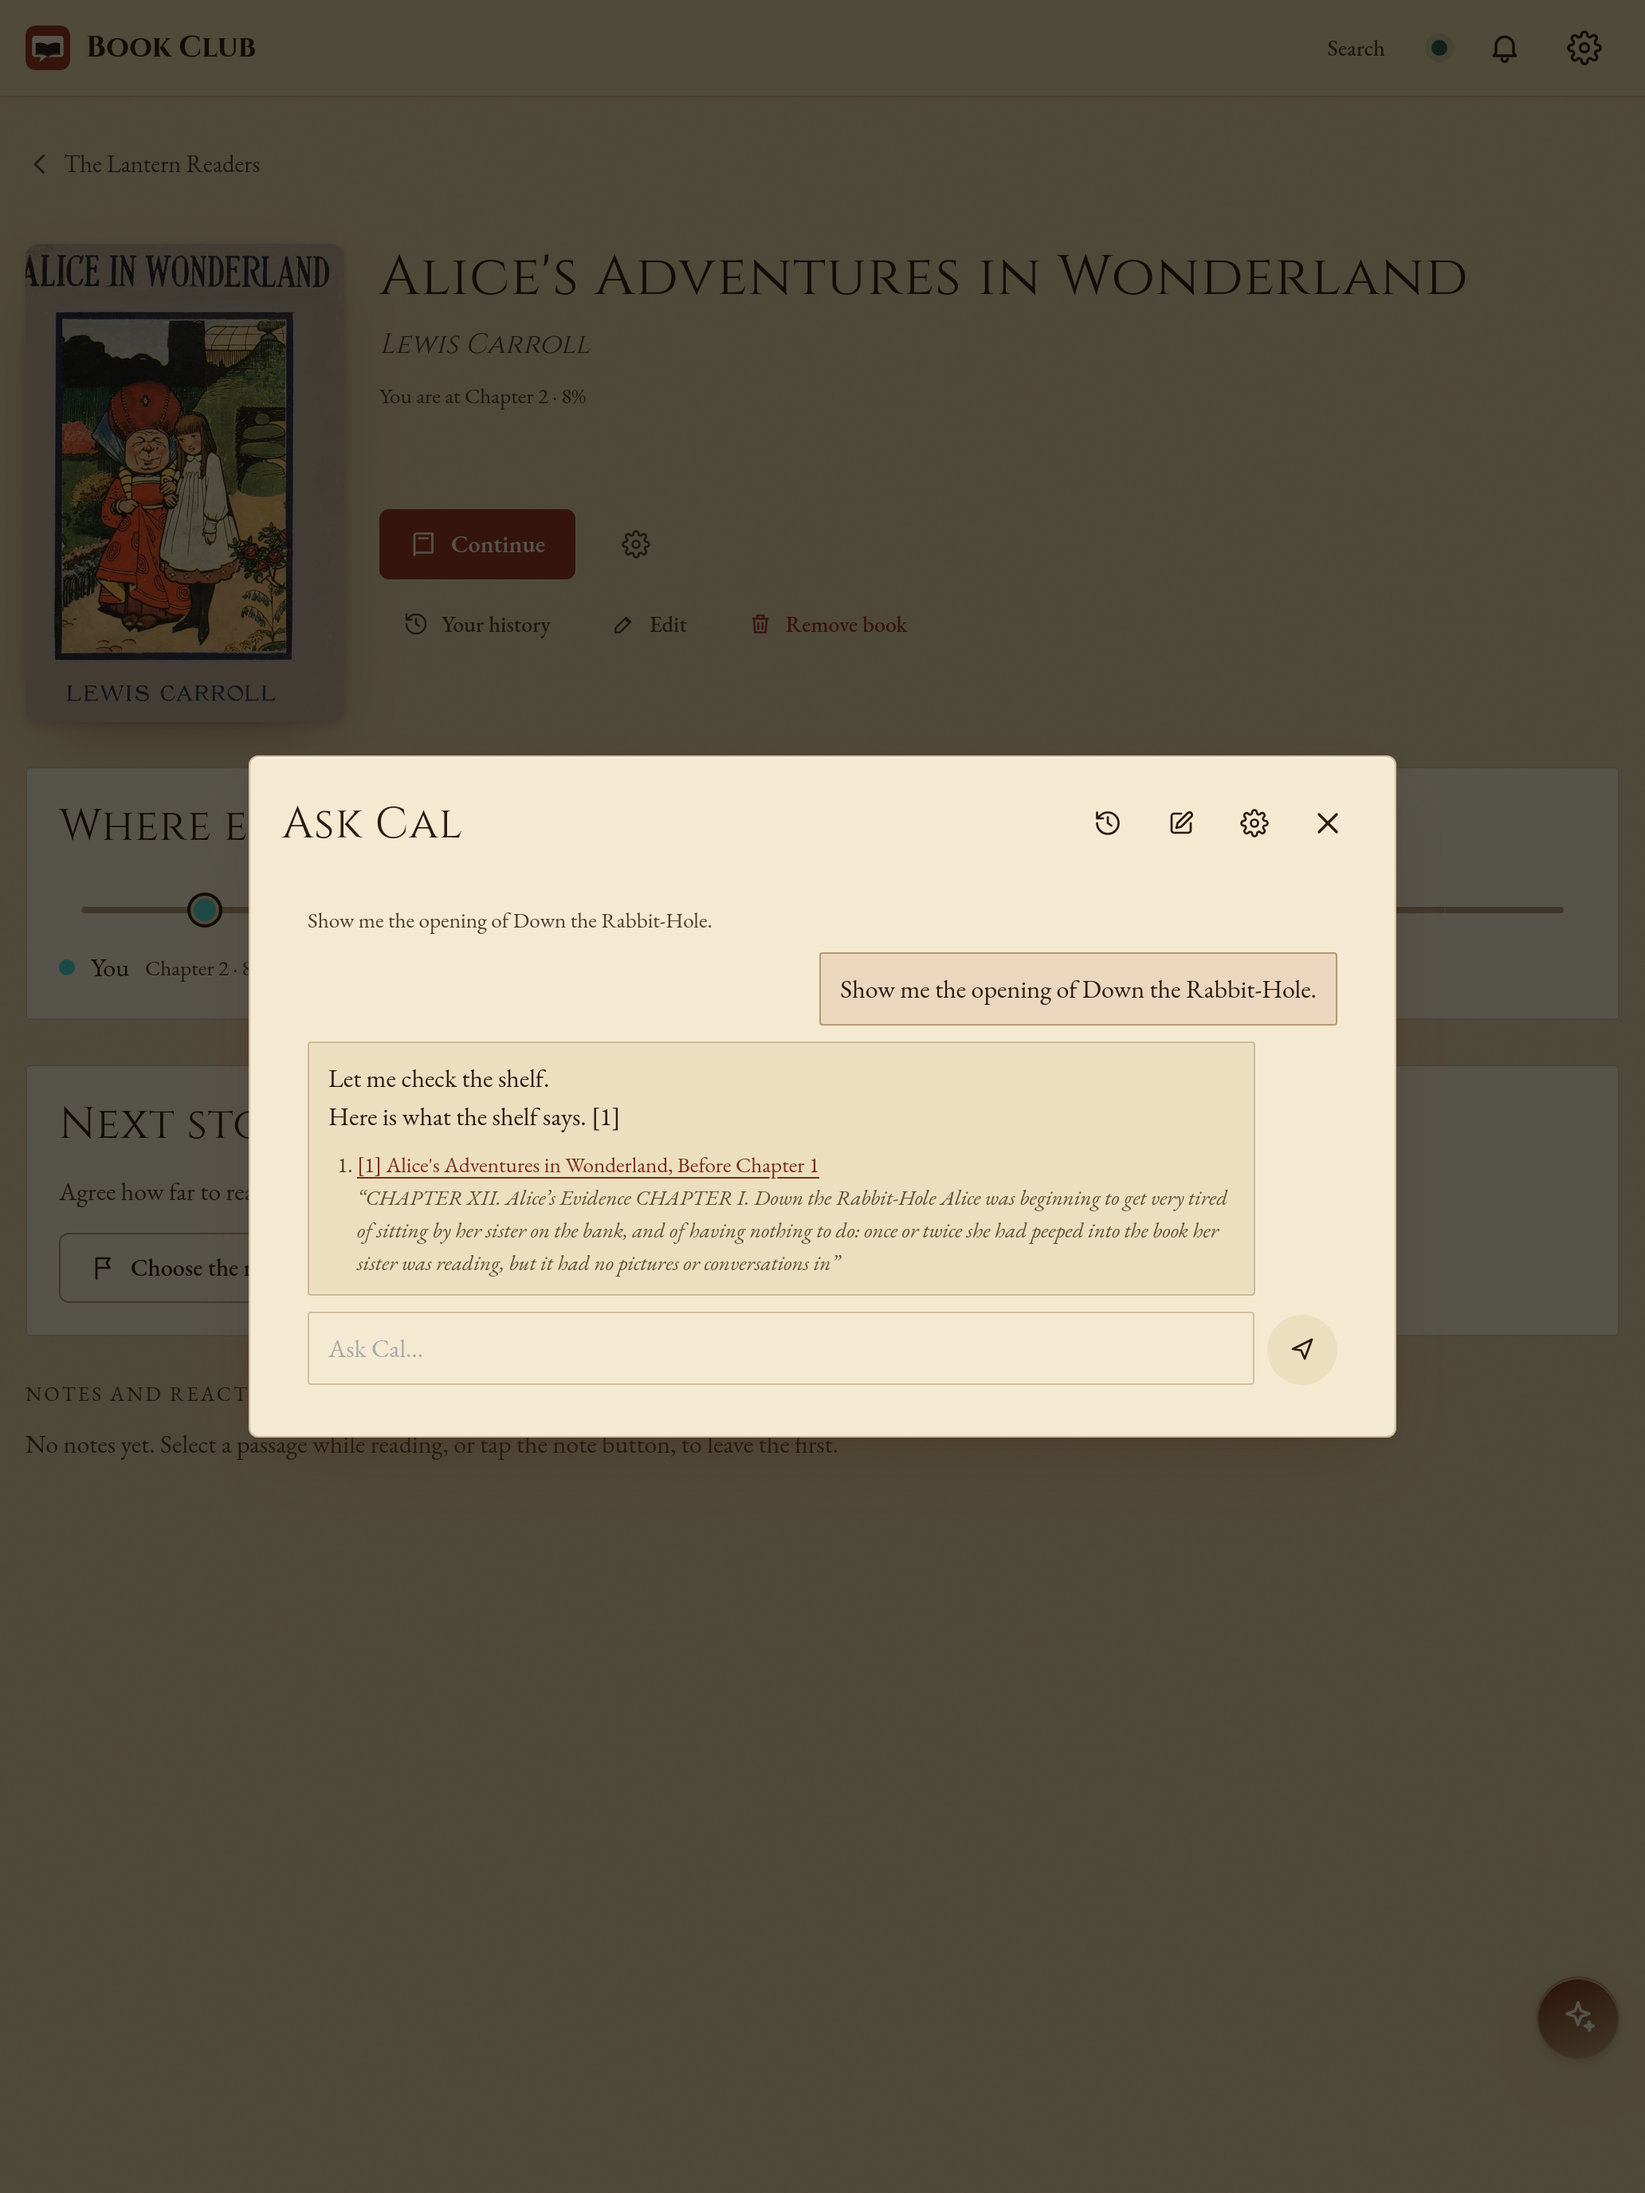
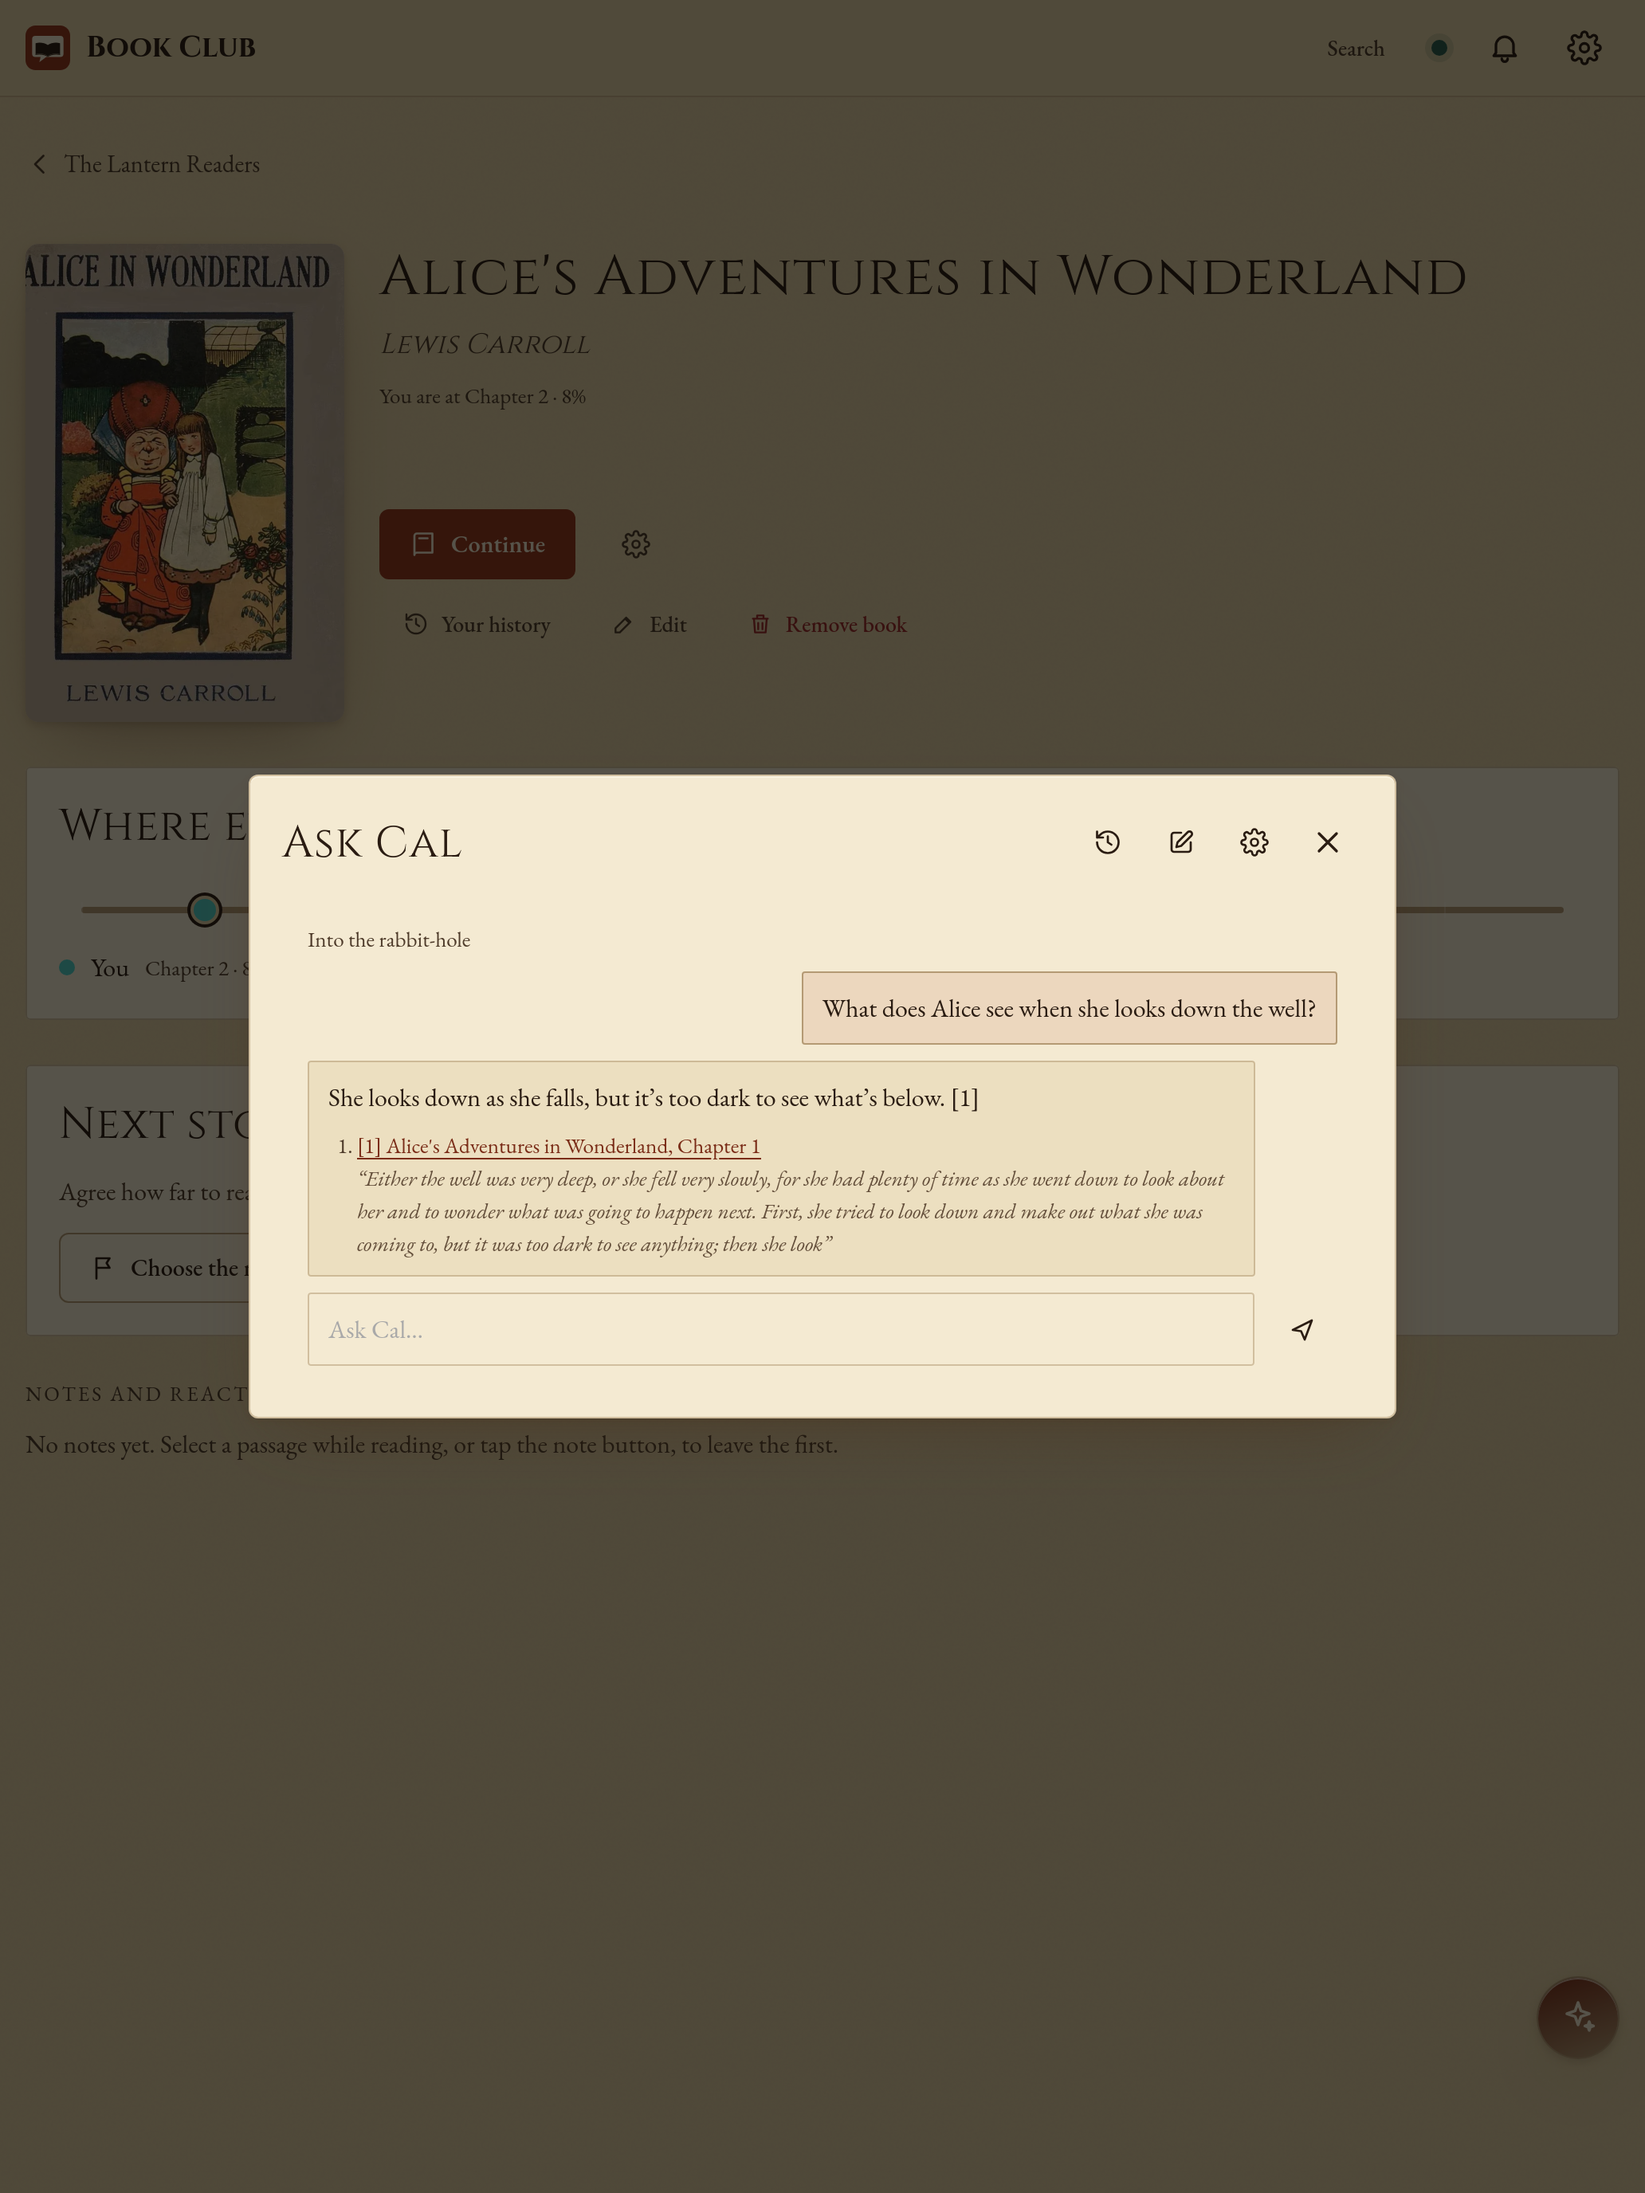
docs(store): show a clean Chapter 1 Cal citation

Changed region(s): [[0.155, 0.4688, 0.8682, 0.6562], [0.155, 0.3438, 0.8682, 0.4375], [0.4961, 0.4375, 0.8062, 0.4688]]

diff --git a/docs/store/screenshots/README.md b/docs/store/screenshots/README.md
@@ -1,6 +1,6 @@
 # App Store screenshots
 
-These portrait PNGs show Book Club on the local demo with a fictional club and member names. The library uses public-domain Project Gutenberg books. The player uses the LibriVox recording of *Alice’s Adventures in Wonderland*. The Cal screen uses the demo model with a real library citation. Every file is an opaque RGB PNG.
+These portrait PNGs show Book Club on the local demo with a fictional club and member names. The library uses public-domain Project Gutenberg books. The player uses the LibriVox recording of *Alice’s Adventures in Wonderland*. The Cal screen uses a local model stand-in with a citation from Chapter 1 of the real book. Every file is an opaque RGB PNG.
 
 | Screen | iPhone 6.9-inch · 1320 × 2868 | iPad 13-inch · 2064 × 2752 |
 | --- | --- | --- |
@@ -12,12 +12,12 @@ These portrait PNGs show Book Club on the local demo with a fictional club and m
 
 ## Capture the views again
 
-Run the demo with the fake Cal model and the LibriVox Alice fixture. In Playwright WebKit, use portrait mobile contexts at 440 × 956 CSS pixels with device scale factor 3 and 1032 × 1376 CSS pixels with device scale factor 2. Use a light appearance. Take viewport PNGs at device scale after the UI and fonts load. Encode them as opaque RGB PNGs without resizing.
+Run the demo with the LibriVox Alice fixture. In Playwright WebKit, use portrait mobile contexts at 440 × 956 CSS pixels with device scale factor 3 and 1032 × 1376 CSS pixels with device scale factor 2. Use a light appearance. Take viewport PNGs at device scale after the UI and fonts load. Encode them as opaque RGB PNGs without resizing.
 
 1. Open the club library with three demo books and a saved place in *Alice*.
 2. Open Alice’s audiobook. Show words at 0:45 in Chapter 1 and scroll until the highlighted word and playback controls are both visible.
 3. Open the club’s General chat with a short conversation about starting the book.
-4. Open Ask Cal from the Alice book page. Allow AI access on the demo account and ask “Show me the opening of Down the Rabbit-Hole.” Use the demo model with no embeddings API key and wait for the cited opening passage.
+4. Open Ask Cal from the Alice book page. Use a loopback model stand-in and full-text search. Allow AI access on the demo account and ask “What does Alice see when she looks down the well?” Have the stand-in search for “well was very deep” and “too dark to see anything” and cite the Chapter 1 passage starting “Either the well was very deep.” The demo answer is “She looks down as she falls, but it’s too dark to see what’s below.” Set the conversation title to “Into the rabbit-hole” through the conversation API, then reopen it for capture.
 5. Return to the library and search for “Alice” in the club. Wait for the book and chat results.
 
 [Apple’s screenshot specifications](https://developer.apple.com/help/app-store-connect/reference/app-information/screenshot-specifications/)
